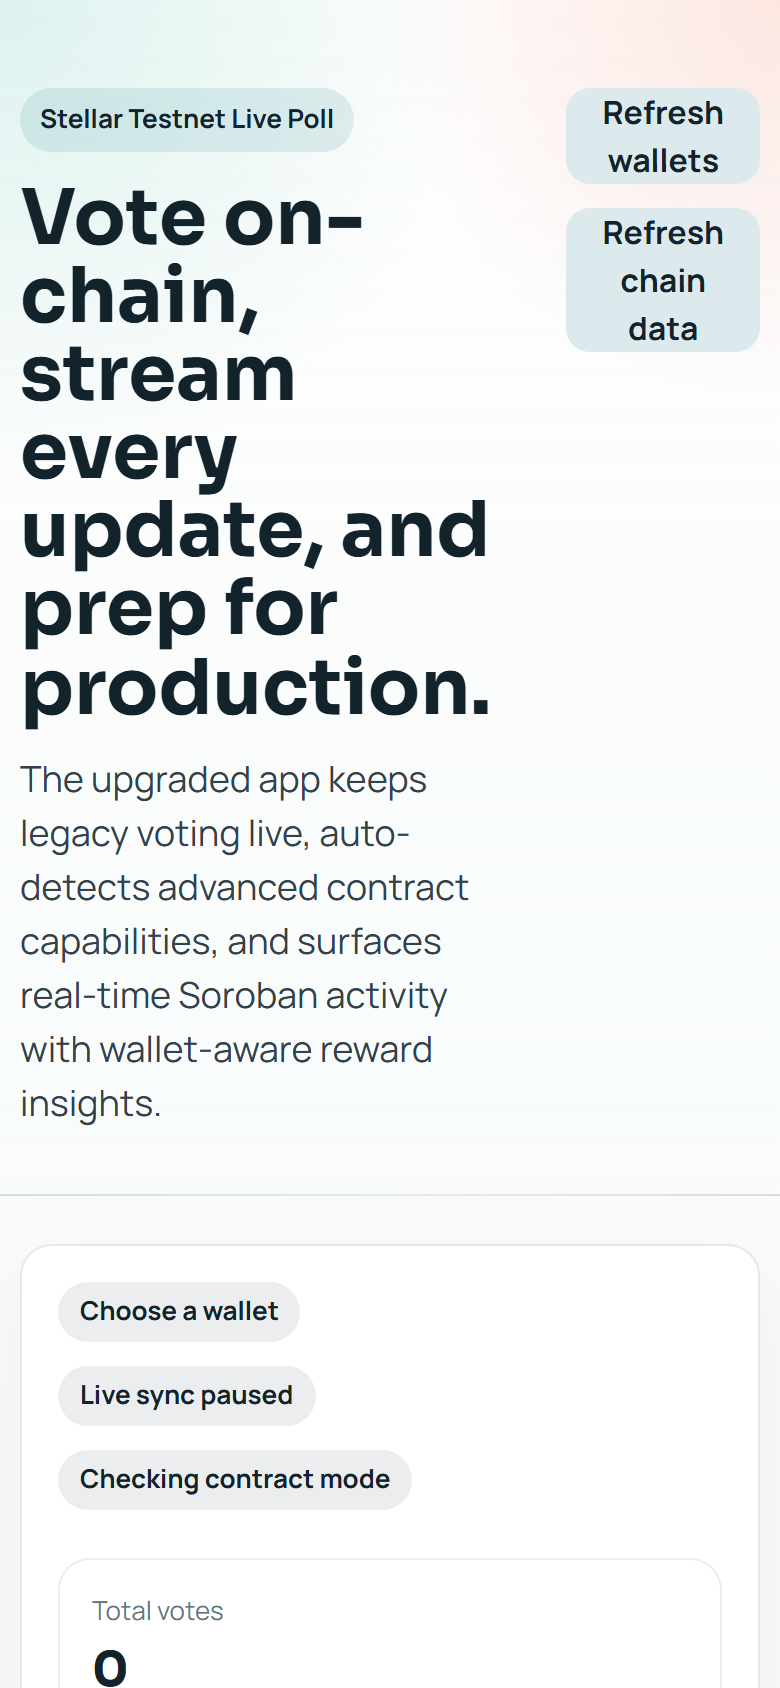
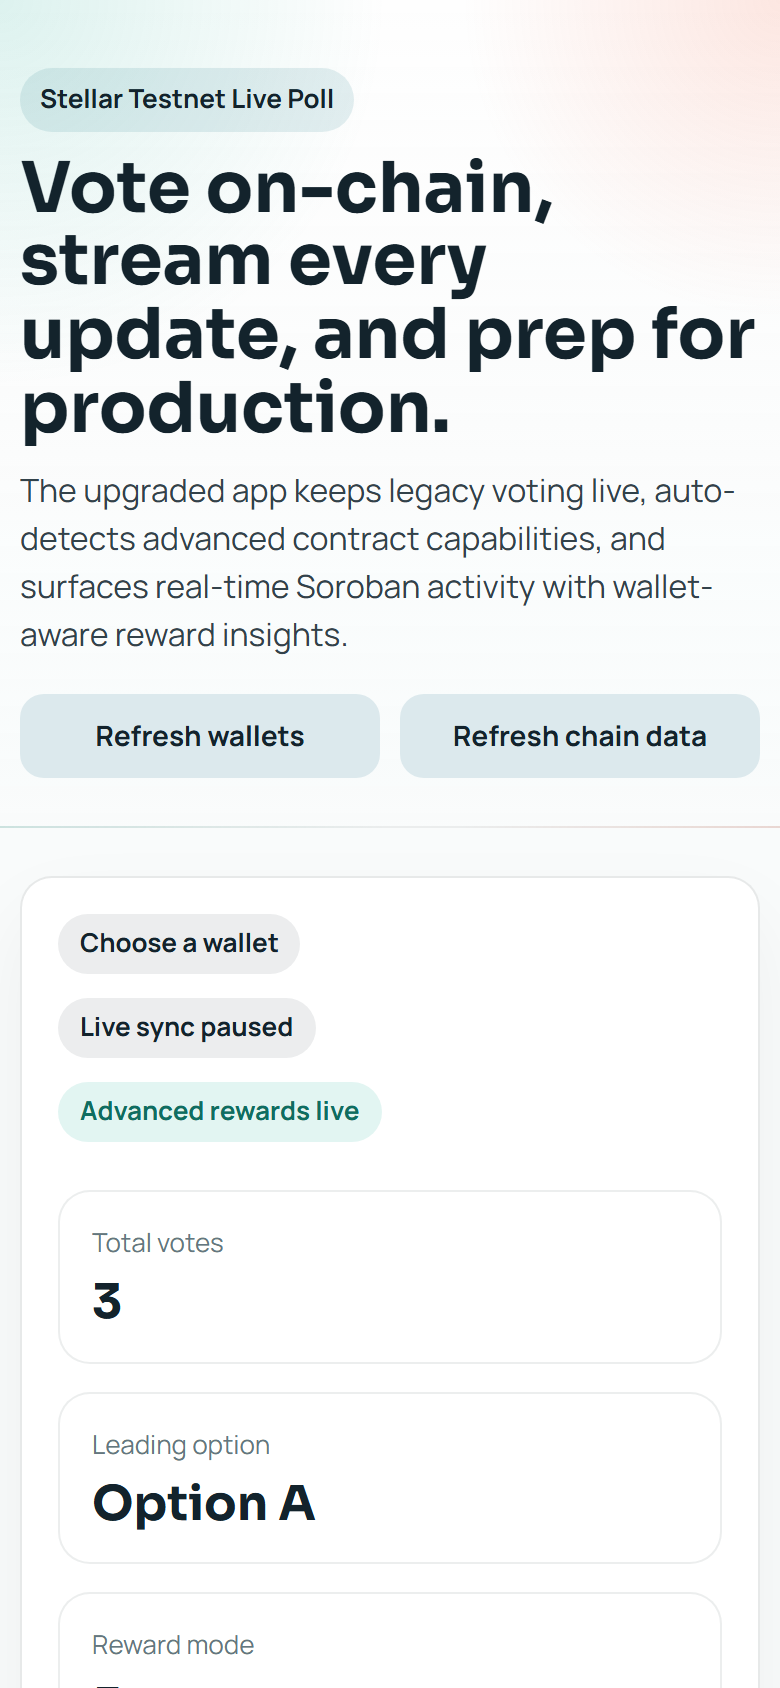
Improve mobile layout: masthead typography and actions

diff --git a/live-poll-website/src/App.css b/live-poll-website/src/App.css
@@ -549,6 +549,28 @@
     width: min(100%, calc(100% - 20px));
   }
 
+  .masthead {
+    flex-direction: column;
+    align-items: stretch;
+    padding: 34px 0 24px;
+    gap: 18px;
+  }
+
+  .masthead-copy {
+    max-width: 100%;
+  }
+
+  .masthead h1 {
+    font-size: clamp(2.05rem, 9vw, 2.75rem);
+    line-height: 1.05;
+    margin: 10px 0 10px;
+  }
+
+  .lead {
+    font-size: 16px;
+    max-width: 52ch;
+  }
+
   .summary-panel,
   .detail-panel,
   .wallet-picker-panel,
@@ -571,7 +593,6 @@
   }
 
   .summary-header,
-  .masthead-actions,
   .detail-value,
   .wallet-selection-meta,
   .wallet-selection-actions,
@@ -583,11 +604,31 @@
     align-items: start;
   }
 
+  .masthead-actions {
+    width: 100%;
+    display: grid;
+    grid-template-columns: repeat(2, minmax(0, 1fr));
+    gap: 10px;
+    justify-content: stretch;
+  }
+
+  .masthead-actions .primary-button {
+    grid-column: 1 / -1;
+  }
+
   .primary-button,
   .secondary-button,
   .vote-button {
     width: 100%;
     justify-content: center;
+  }
+
+  .primary-button,
+  .secondary-button,
+  .vote-button {
+    min-height: 42px;
+    padding: 0 14px;
+    font-size: 14px;
   }
 
   .vote-button {
